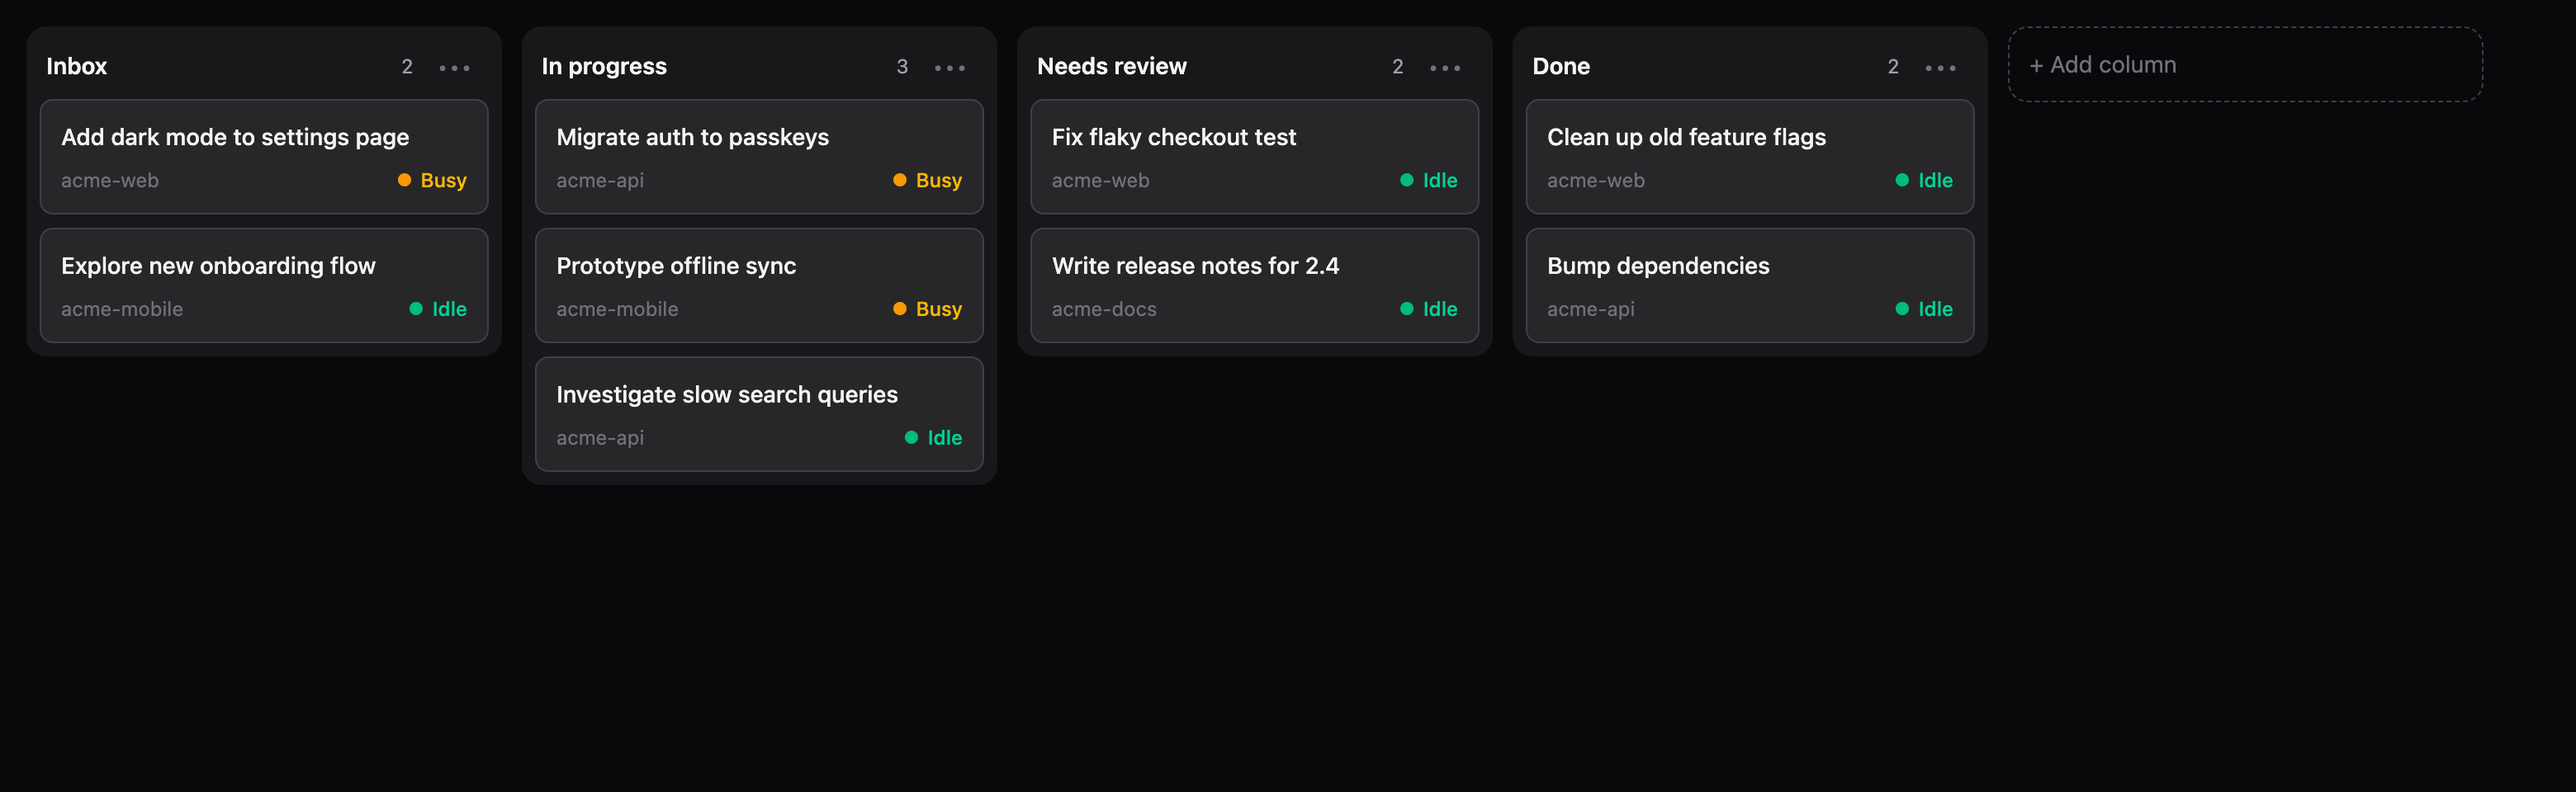
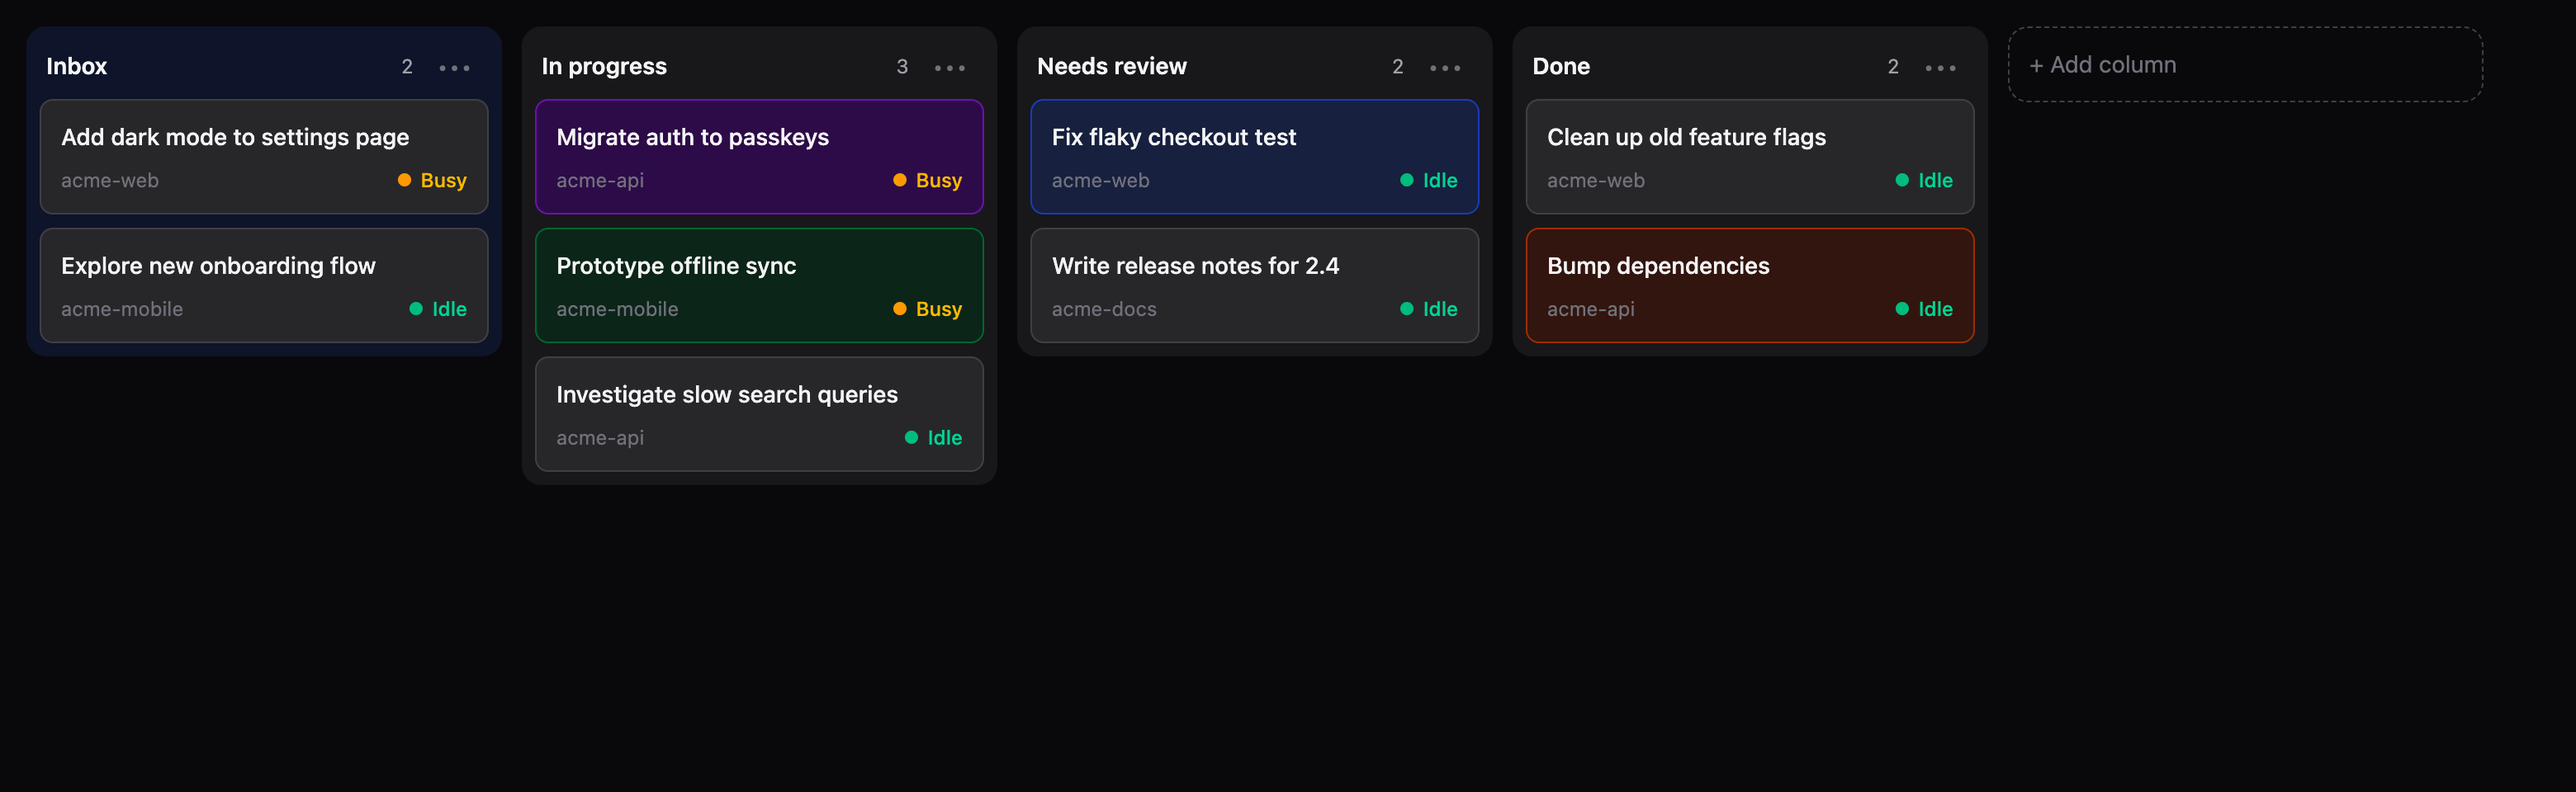
Card colors, blue Inbox that hides when empty
Right-click a card > Color to tint it. The Inbox column gets a light
blue tint and hides when it has no cards (stays visible mid-drag so
cards can still be dropped into it).

Changed region(s): [[0.1865, 0.125, 0.4042, 0.4375], [0.5907, 0.2812, 0.7772, 0.4375]]

diff --git a/src/components/session-card.tsx b/src/components/session-card.tsx
@@ -2,24 +2,29 @@ import { ContextMenu } from "@base-ui/react/context-menu"
 import { useSortable } from "@dnd-kit/sortable"
 import { CSS } from "@dnd-kit/utilities"
 import type { KnownSession, SessionStatus } from "../lib/board"
+import { type CardColor, COLOR_STYLES, DEFAULT_CARD_STYLE } from "../lib/colors"
 import { MenuItem, MenuPopup, MenuSeparator } from "../ui/menu"
+import { ColorSubmenu } from "./color-submenu"
 import { StateBadge } from "./state-badge"
 
 /*
  * One Claude session on the board. Shows its title, project and state.
  * For worktree sessions (…/project/.claude/worktrees/branch) the project is the main folder's name.
- * Draggable between columns. Right-click opens a menu with Open (in Claude) and Archive.
+ * Draggable between columns. Right-click opens a menu with Open (in Claude), Color and Archive.
+ * A picked color tints the card.
  * Double-click also opens it. SessionCardBody is the plain look, reused for the drag overlay.
  */
 
 type Props = {
   session: KnownSession
   state: SessionStatus
+  color: CardColor | null
   onOpen: () => void
+  onPickColor: (color: CardColor | null) => void
   onArchive: () => void
 }
 
-export function SessionCard({ session, state, onOpen, onArchive }: Props) {
+export function SessionCard({ session, state, color, onOpen, onPickColor, onArchive }: Props) {
   const { setNodeRef, attributes, listeners, transform, transition, isDragging } = useSortable({
     id: session.id,
     data: { type: "card" },
@@ -35,12 +40,13 @@ export function SessionCard({ session, state, onOpen, onArchive }: Props) {
     >
       <ContextMenu.Root>
         <ContextMenu.Trigger onDoubleClick={onOpen}>
-          <SessionCardBody session={session} state={state} />
+          <SessionCardBody session={session} state={state} color={color} />
         </ContextMenu.Trigger>
         <ContextMenu.Portal>
           <ContextMenu.Positioner className="z-50">
             <MenuPopup>
               <MenuItem onClick={onOpen}>Open in Claude</MenuItem>
+              <ColorSubmenu color={color} onPick={onPickColor} />
               <MenuSeparator />
               <MenuItem onClick={onArchive}>Archive</MenuItem>
             </MenuPopup>
@@ -51,11 +57,15 @@ export function SessionCard({ session, state, onOpen, onArchive }: Props) {
   )
 }
 
-export function SessionCardBody({ session, state }: { session: KnownSession; state: SessionStatus }) {
+type BodyProps = { session: KnownSession; state: SessionStatus; color: CardColor | null }
+
+export function SessionCardBody({ session, state, color }: BodyProps) {
   const projectPath = session.cwd.split("/.claude/worktrees/")[0]
   const project = projectPath.split("/").filter(Boolean).pop() ?? projectPath
   return (
-    <div className="cursor-grab rounded-lg border border-zinc-200 bg-white p-3 shadow-xs select-none active:cursor-grabbing dark:border-zinc-700 dark:bg-zinc-800">
+    <div
+      className={`cursor-grab rounded-lg border p-3 shadow-xs select-none active:cursor-grabbing ${color ? COLOR_STYLES[color].card : DEFAULT_CARD_STYLE}`}
+    >
       <div className="line-clamp-2 text-sm font-medium text-zinc-900 dark:text-zinc-100">{session.name}</div>
       <div className="mt-2 flex items-center justify-between gap-2">
         <span className="truncate text-xs text-zinc-500" title={session.cwd}>

diff --git a/src/screens/board-screen.tsx b/src/screens/board-screen.tsx
@@ -28,6 +28,7 @@ import { useBoard } from "../lib/use-board"
  * and settle on drop (onDragEnd). Columns reorder by dragging their header.
  * Also handles adding, renaming and deleting columns, and archiving cards.
  * Only running sessions are shown; ended ones keep their spot but stay hidden.
+ * The Inbox column hides when it has no cards.
  */
 
 /* While dragging a column, only look at other columns. While dragging a card, look at everything. */
@@ -112,6 +113,11 @@ export function BoardScreen() {
     if (title) update((current) => boards.renameColumn(current, columnId, title))
   }
 
+  /* Only running sessions are shown. An empty Inbox hides, except mid-drag so you can drop into it. */
+  const shownColumns = board.columns
+    .map((column) => ({ column, visibleCardIds: column.cardIds.filter((id) => liveSessions[id]) }))
+    .filter(({ column, visibleCardIds }) => column.id !== boards.INBOX_ID || visibleCardIds.length > 0 || activeId)
+
   const activeColumn = board.columns.find((column) => column.id === activeId)
   const activeSession = activeId ? board.sessions[activeId] : undefined
 
@@ -126,9 +132,8 @@ export function BoardScreen() {
         onDragCancel={() => setActiveId(null)}
       >
         <div className="flex flex-1 items-start gap-3 overflow-x-auto p-4">
-          <SortableContext items={board.columns.map((column) => column.id)} strategy={horizontalListSortingStrategy}>
-            {board.columns.map((column) => {
-              const visibleCardIds = column.cardIds.filter((id) => liveSessions[id])
+          <SortableContext items={shownColumns.map(({ column }) => column.id)} strategy={horizontalListSortingStrategy}>
+            {shownColumns.map(({ column, visibleCardIds }) => {
               return (
                 <BoardColumn
                   key={column.id}
@@ -144,7 +149,9 @@ export function BoardScreen() {
                       key={id}
                       session={board.sessions[id] ?? liveSessions[id]}
                       state={liveSessions[id].status}
+                      color={board.colors[id] ?? null}
                       onOpen={() => openSession(id)}
+                      onPickColor={(color) => update((current) => boards.setCardColor(current, id, color))}
                       onArchive={() => update((current) => boards.archiveCard(current, id))}
                     />
                   ))}
@@ -164,7 +171,11 @@ export function BoardScreen() {
         <DragOverlay dropAnimation={dropAnimation}>
           {activeSession && (
             <div data-tilt className="rotate-2">
-              <SessionCardBody session={activeSession} state={liveSessions[activeSession.id]?.status ?? "idle"} />
+              <SessionCardBody
+                session={activeSession}
+                state={liveSessions[activeSession.id]?.status ?? "idle"}
+                color={board.colors[activeSession.id] ?? null}
+              />
             </div>
           )}
           {activeColumn && (

diff --git a/docs/demo.html b/docs/demo.html
@@ -2,7 +2,8 @@
 <!--
   Demo page for README screenshots. Runs the real app with fake sessions instead of
   the Rust backend, so no real session titles end up in the screenshots.
-  Used by scripts/screenshots.sh while `pnpm dev` is running. Add ?menu to open a right-click menu.
+  Used by scripts/screenshots.sh while `pnpm dev` is running.
+  ?menu opens a right-click menu, ?color also opens its Color submenu, ?noinbox empties the Inbox.
 -->
 <html lang="en">
   <head>
@@ -29,8 +30,10 @@
           { id: "col_c", title: "Done", cardIds: ["local_s7", "local_s9"] },
         ],
         sessions: Object.fromEntries(sessions.map(({ id, name, cwd }) => [id, { id, name, cwd }])),
+        colors: { local_s3: "purple", local_s2: "blue", local_s6: "green", local_s9: "orange" },
         archivedIds: [],
       }
+      if (location.search.includes("noinbox")) board.columns[3].cardIds.push(...board.columns[0].cardIds.splice(0))
 
       window.__TAURI_INTERNALS__ = {
         transformCallback: () => 0,
@@ -41,12 +44,18 @@
         },
       }
 
-      if (location.search.includes("menu")) {
+      if (location.search.includes("menu") || location.search.includes("color")) {
         setTimeout(() => {
           const card = document.querySelectorAll("section")[1].querySelector("section > div > div > div")
           const rect = card.getBoundingClientRect()
           const init = { bubbles: true, cancelable: true, clientX: rect.left + 120, clientY: rect.top + 30, button: 2 }
           card.dispatchEvent(new MouseEvent("contextmenu", init))
+          if (location.search.includes("color")) {
+            setTimeout(() => {
+              const trigger = [...document.querySelectorAll("[role=menuitem]")].find((el) => el.textContent.startsWith("Color"))
+              trigger.click()
+            }, 300)
+          }
         }, 800)
       }
     </script>

diff --git a/src/lib/board.ts b/src/lib/board.ts
@@ -1,7 +1,10 @@
+import type { CardColor } from "./colors"
+
 /*
  * The board's data model and the pure functions that change it.
  * A board is a list of columns, each holding session ids in order. The board also
- * remembers every session it has seen (name, folder) and which ones the user archived.
+ * remembers every session it has seen (name, folder), the color the user gave each card,
+ * and which ones the user archived.
  * Ended sessions stay in their column here but aren't shown, so if a session starts
  * again its card comes back where it was.
  */
@@ -18,6 +21,7 @@ export type Column = { id: string; title: string; cardIds: string[] }
 export type Board = {
   columns: Column[]
   sessions: Record<string, KnownSession>
+  colors: Record<string, CardColor>
   archivedIds: string[]
 }
 
@@ -25,6 +29,7 @@ export function emptyBoard(): Board {
   return {
     columns: [{ id: INBOX_ID, title: "Inbox", cardIds: [] }],
     sessions: {},
+    colors: {},
     archivedIds: [],
   }
 }
@@ -32,7 +37,7 @@ export function emptyBoard(): Board {
 export function parseBoard(json: string | null): Board {
   if (!json) return emptyBoard()
   try {
-    return JSON.parse(json) as Board
+    return { ...emptyBoard(), ...JSON.parse(json) }
   } catch {
     return emptyBoard()
   }
@@ -135,4 +140,11 @@ export function moveColumn(board: Board, columnId: string, overId: string): Boar
   const [moved] = columns.splice(from, 1)
   columns.splice(to, 0, moved)
   return { ...board, columns }
+}
+
+export function setCardColor(board: Board, cardId: string, color: CardColor | null): Board {
+  const colors = { ...board.colors }
+  if (color) colors[cardId] = color
+  else delete colors[cardId]
+  return { ...board, colors }
 }

diff --git a/src/components/color-submenu.tsx b/src/components/color-submenu.tsx
@@ -1,0 +1,40 @@
+import { ContextMenu } from "@base-ui/react/context-menu"
+import { CARD_COLORS, type CardColor, COLOR_STYLES } from "../lib/colors"
+import { MenuItem, MenuPopup, MenuSeparator, MenuSubmenuTrigger } from "../ui/menu"
+
+/*
+ * The "Color ▸" submenu in a card's right-click menu.
+ * Lists the colors with a swatch, checks the current one, and has None to clear it.
+ */
+
+type Props = {
+  color: CardColor | null
+  onPick: (color: CardColor | null) => void
+}
+
+export function ColorSubmenu({ color, onPick }: Props) {
+  return (
+    <ContextMenu.SubmenuRoot>
+      <MenuSubmenuTrigger>Color</MenuSubmenuTrigger>
+      <ContextMenu.Portal>
+        <ContextMenu.Positioner className="z-50" sideOffset={4} alignOffset={-4}>
+          <MenuPopup className="min-w-36">
+            {CARD_COLORS.map((option) => (
+              <MenuItem key={option} className="gap-2" onClick={() => onPick(option)}>
+                <span className={`size-3 rounded-full ${COLOR_STYLES[option].swatch}`} />
+                <span className="flex-1">{COLOR_STYLES[option].label}</span>
+                {color === option && <span className="text-xs">✓</span>}
+              </MenuItem>
+            ))}
+            <MenuSeparator />
+            <MenuItem className="gap-2" onClick={() => onPick(null)}>
+              <span className="size-3 rounded-full border border-zinc-300 dark:border-zinc-600" />
+              <span className="flex-1">None</span>
+              {!color && <span className="text-xs">✓</span>}
+            </MenuItem>
+          </MenuPopup>
+        </ContextMenu.Positioner>
+      </ContextMenu.Portal>
+    </ContextMenu.SubmenuRoot>
+  )
+}

diff --git a/src/lib/colors.ts b/src/lib/colors.ts
@@ -1,0 +1,49 @@
+/*
+ * The colors a user can give a card to tell sessions apart at a glance.
+ * Tailwind classes are written out in full so Tailwind finds them when building.
+ */
+
+export const CARD_COLORS = ["red", "orange", "yellow", "green", "blue", "purple", "pink"] as const
+export type CardColor = (typeof CARD_COLORS)[number]
+
+type ColorStyle = { label: string; swatch: string; card: string }
+
+export const COLOR_STYLES: Record<CardColor, ColorStyle> = {
+  red: {
+    label: "Red",
+    swatch: "bg-red-500",
+    card: "border-red-300 bg-red-50 dark:border-red-800 dark:bg-red-950/60",
+  },
+  orange: {
+    label: "Orange",
+    swatch: "bg-orange-500",
+    card: "border-orange-300 bg-orange-50 dark:border-orange-800 dark:bg-orange-950/60",
+  },
+  yellow: {
+    label: "Yellow",
+    swatch: "bg-yellow-400",
+    card: "border-yellow-300 bg-yellow-50 dark:border-yellow-700 dark:bg-yellow-950/60",
+  },
+  green: {
+    label: "Green",
+    swatch: "bg-green-500",
+    card: "border-green-300 bg-green-50 dark:border-green-800 dark:bg-green-950/60",
+  },
+  blue: {
+    label: "Blue",
+    swatch: "bg-blue-500",
+    card: "border-blue-300 bg-blue-50 dark:border-blue-800 dark:bg-blue-950/60",
+  },
+  purple: {
+    label: "Purple",
+    swatch: "bg-purple-500",
+    card: "border-purple-300 bg-purple-50 dark:border-purple-800 dark:bg-purple-950/60",
+  },
+  pink: {
+    label: "Pink",
+    swatch: "bg-pink-500",
+    card: "border-pink-300 bg-pink-50 dark:border-pink-800 dark:bg-pink-950/60",
+  },
+}
+
+export const DEFAULT_CARD_STYLE = "border-zinc-200 bg-white dark:border-zinc-700 dark:bg-zinc-800"

diff --git a/src/ui/menu.tsx b/src/ui/menu.tsx
@@ -3,7 +3,7 @@ import type { ComponentProps } from "react"
 
 /*
  * Shared look for every menu in the app (right-click menus and "…" menus).
- * Wraps base-ui's Menu.Popup, Menu.Item and Menu.Separator with Tailwind styles.
+ * Wraps base-ui's Menu.Popup, Menu.Item, Menu.SubmenuTrigger and Menu.Separator with Tailwind styles.
  * These parts work inside both <Menu.Root> and <ContextMenu.Root>.
  */
 
@@ -29,6 +29,18 @@ export function MenuItem({
       className={`flex cursor-default items-center rounded-md px-2.5 py-1.5 outline-none select-none ${color} ${className}`}
       {...props}
     />
+  )
+}
+
+export function MenuSubmenuTrigger({ children, ...props }: ComponentProps<typeof Menu.SubmenuTrigger>) {
+  return (
+    <Menu.SubmenuTrigger
+      className="flex cursor-default items-center justify-between gap-4 rounded-md px-2.5 py-1.5 text-zinc-800 outline-none select-none data-highlighted:bg-zinc-100 data-popup-open:bg-zinc-100 dark:text-zinc-100 dark:data-highlighted:bg-zinc-700 dark:data-popup-open:bg-zinc-700"
+      {...props}
+    >
+      {children}
+      <span className="text-xs text-zinc-400">▸</span>
+    </Menu.SubmenuTrigger>
   )
 }
 

diff --git a/src/components/board-column.tsx b/src/components/board-column.tsx
@@ -7,6 +7,7 @@ import { ColumnTitle } from "./column-title"
 
 /*
  * One column of the board. Drag it by its header to reorder columns (the Inbox stays put).
+ * The Inbox gets a light blue tint so it stands apart from the user's own columns.
  * The body is a drop zone for cards; the cards themselves are passed in as children.
  * visibleCardIds are the cards actually shown (running sessions), used for sorting and the count.
  */
@@ -41,7 +42,7 @@ export function BoardColumn({
     <section
       ref={setNodeRef}
       style={{ transform: CSS.Translate.toString(transform), transition }}
-      className={`flex max-h-full w-72 shrink-0 flex-col rounded-xl bg-zinc-100 dark:bg-zinc-900 ${isDragging ? "opacity-40" : ""}`}
+      className={`flex max-h-full w-72 shrink-0 flex-col rounded-xl ${isInbox ? "bg-blue-50 dark:bg-blue-950/40" : "bg-zinc-100 dark:bg-zinc-900"} ${isDragging ? "opacity-40" : ""}`}
     >
       <header
         className={`flex items-center gap-2 px-3 pt-3 pb-2 ${isInbox ? "" : "cursor-grab active:cursor-grabbing"}`}

diff --git a/README.md b/README.md
@@ -8,15 +8,15 @@ Every running Claude Code session shows up as a card. You make the columns and d
 
 ## What it does
 
-- **Live sessions.** Reads `~/.claude/sessions` every 2 seconds. New sessions land in the **Inbox**.
+- **Live sessions.** Reads `~/.claude/sessions` every 2 seconds. New sessions land in the **Inbox** (the blue column). It hides when it's empty.
 - **Live state.** Each card shows **Busy** or **Idle**.
 - **Busy goes to the top.** A card that turns busy jumps to the top of its column. Otherwise your order stays.
 - **Ended sessions hide.** When a session's process exits, its card disappears. If the session starts again, the card comes back in the same spot.
 - **Your own columns.** Add, rename, reorder and delete columns. Deleting a column moves its cards back to the Inbox.
-- **Right-click a card** to open it in Claude, or archive it. Double-click also opens it.
+- **Right-click a card** to open it in Claude, give it a color, or archive it. Double-click also opens it.
 - **Archive** only hides the card in Claudeboard. It doesn't touch the session in Claude.
 
-![Right-click menu](docs/context-menu.png)
+![Right-click menu with the Color submenu](docs/context-menu.png)
 
 Dark mode follows your system:
 
